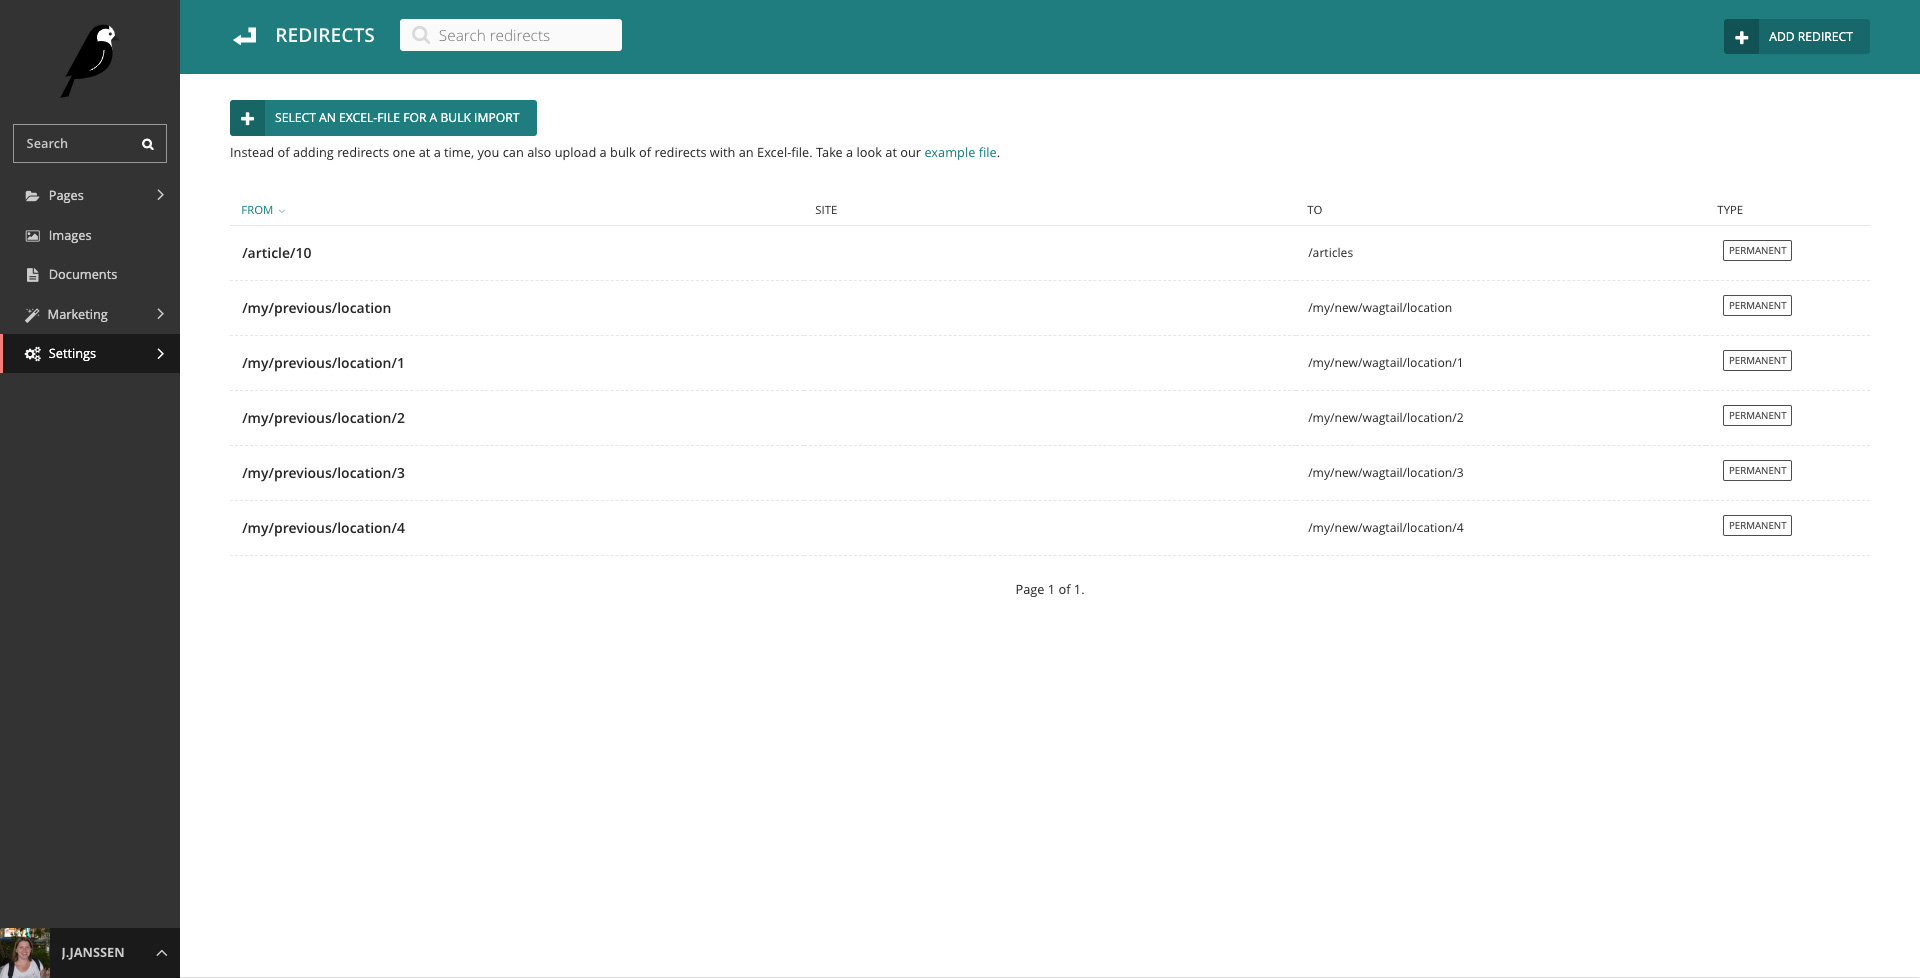
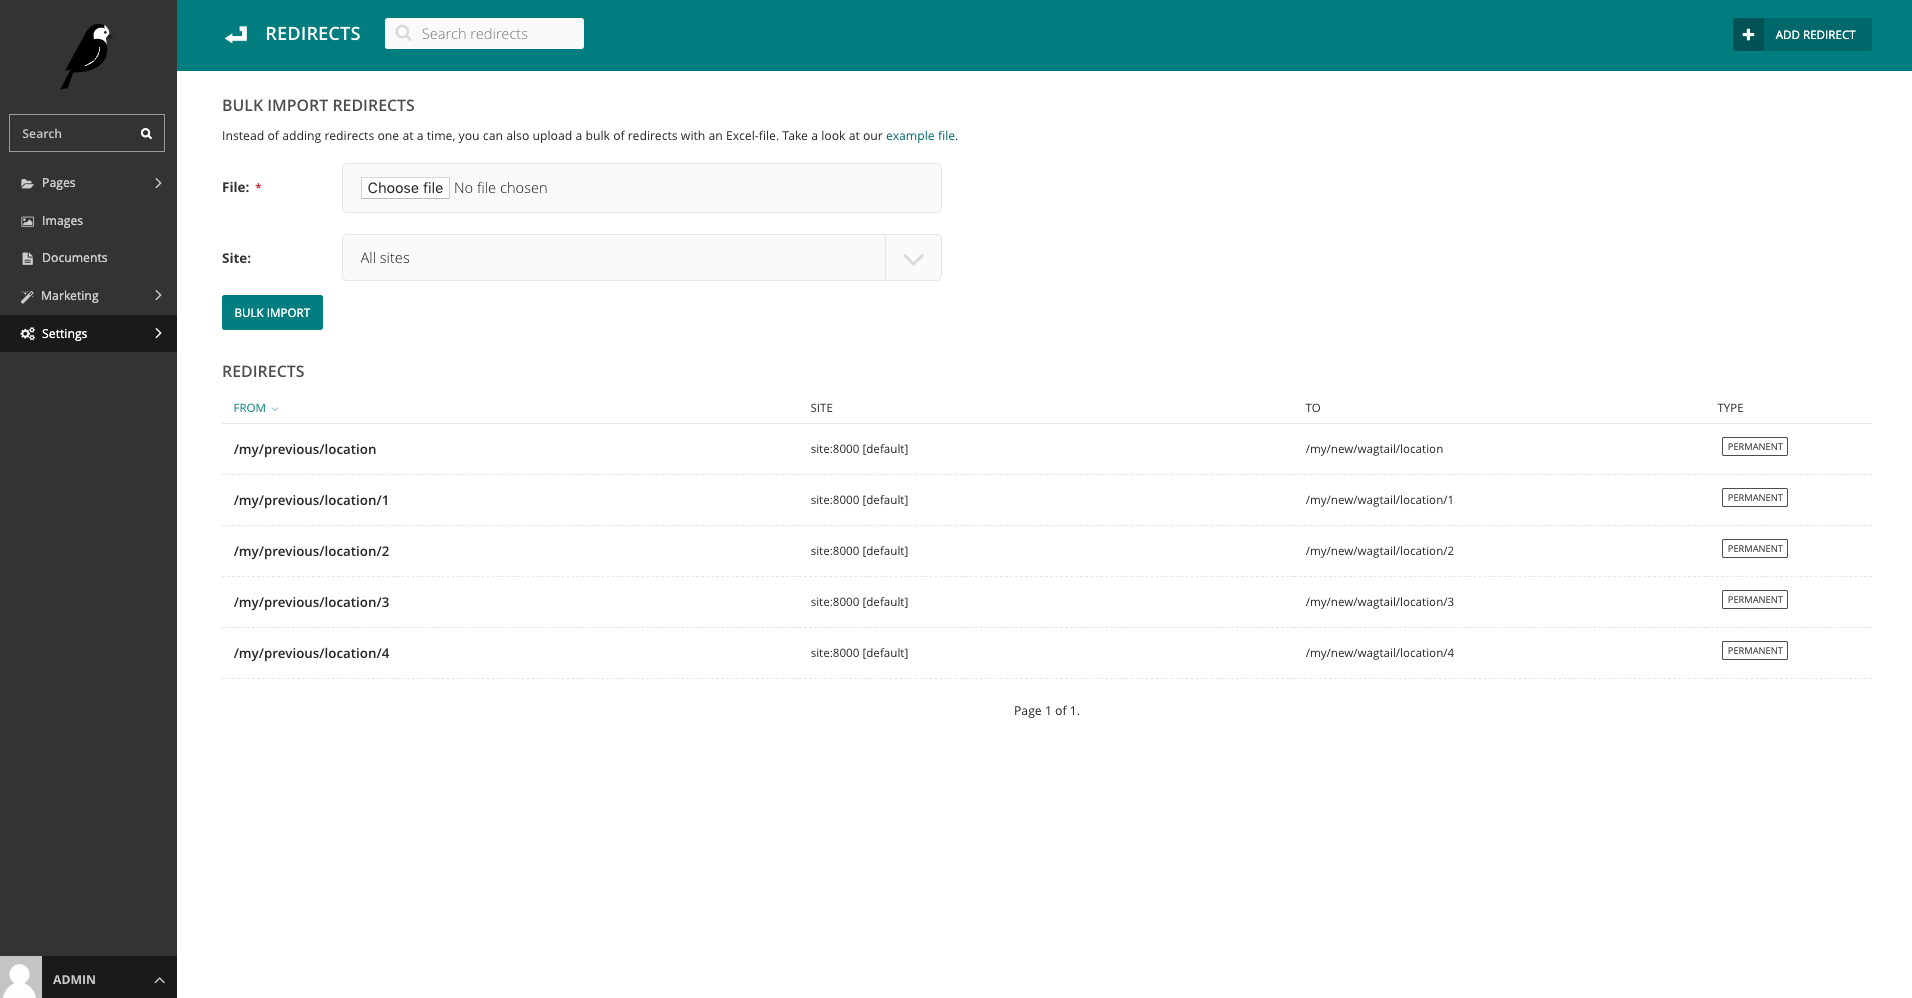
Ability to assign to a site when doing a bulk import

diff --git a/src/wagtail_marketing/templates/wagtailredirects/index.html b/src/wagtail_marketing/templates/wagtailredirects/index.html
@@ -1,5 +1,5 @@
 {% extends "wagtailadmin/base.html" %}
-{% load i18n static %}
+{% load i18n static redirect_tags %}
 {% block titletag %}{% trans "Redirects" %}{% endblock %}
 
 {% block extra_css %}
@@ -28,16 +28,23 @@
     {% endif %}
 
     <div class="nice-padding">
+        <h2>{% trans "Bulk import redirects" %}</h2>
+
+        {% static 'wagtail_marketing/documents/example-file.xlsx' as example_file %}
+        <p>{% blocktrans %}Instead of adding redirects one at a time, you can also upload a bulk of redirects with an Excel-file. Take a look at our <a href="{{ example_file }}" target="_blank" rel="noopener noreferrer">example file</a>.{% endblocktrans %}</p>
+
         <form action="{% url 'redirect_import_view' %}" enctype="multipart/form-data" method="POST" class="c-form">
             {% csrf_token %}
-            <div class="c-file-input">
-                <button class="button bicolor icon icon-plus">{% trans "Select an Excel-file for a bulk import" %}</button>
-                <input id="fileupload" type="file" name="file" onchange="form.submit();">
-            </div>
-            {% static 'wagtail_marketing/documents/example-file.xlsx' as example_file %}
-            <p>{% blocktrans %}Instead of adding redirects one at a time, you can also upload a bulk of redirects with an Excel-file. Take a look at our <a href="{{ example_file }}" target="_blank" rel="noopener noreferrer">example file</a>.{% endblocktrans %}</p>
+            <ul class="fields">
+                {% get_redirect_import_form as form %}
+                {% for field in form %}
+                    {% include "wagtailadmin/shared/field_as_li.html" with field=field %}
+                {% endfor %}
+            </ul>
+            <button type="submit" class="button">{% trans "Import" %}</button>
         </form>
 
+        <h2>{% trans "Redirects" %}</h2>
         <div id="redirects-results" class="redirects">
             {% include "wagtailredirects/results.html" %}
         </div>

diff --git a/tests/unit/test_views.py b/tests/unit/test_views.py
@@ -4,6 +4,7 @@ from django.contrib.messages import get_messages
 from django.core.files.uploadedfile import SimpleUploadedFile
 from django.urls import reverse
 from wagtail.contrib.redirects.models import Redirect
+from wagtail.core.models import Site
 
 from tests.factories.accounts import UserFactory
 from wagtail_marketing.views import RedirectImportView
@@ -21,7 +22,7 @@ class TestRedirectImportView:
         upload_file = open('tests/data/test.xlsx', 'rb')
         assert Redirect.objects.count() == 0
         result = redirect_import_view.read_and_save_data(
-            file_contents=SimpleUploadedFile(upload_file.name, upload_file.read()))
+            file_contents=SimpleUploadedFile(upload_file.name, upload_file.read()), site=None)
         assert result == [
             'Row: 2 - The old path and new path, must both start with /',
             'Row: 3 - The old path and new path, must both start with /',
@@ -45,6 +46,16 @@ class TestRedirectImportView:
         messages = list(get_messages(response.wsgi_request))
         assert len(messages) == 1
         assert str(messages[0]) == '<ul class="errorlist"><li>The submitted file is empty.</li></ul>'
+
+    def test_post_redirect_import_view_no_file(self, client):
+        client.force_login(user=self.user)
+
+        upload_file = open('tests/data/test-empty.txt', 'rb')
+
+        response = client.post(self.view_url, data={})
+        messages = list(get_messages(response.wsgi_request))
+        assert len(messages) == 1
+        assert str(messages[0]) == '<ul class="errorlist"><li>This field is required.</li></ul>'
 
     def test_post_redirect_import_view_wrong_file_type(self, client):
         client.force_login(user=self.user)
@@ -73,3 +84,58 @@ class TestRedirectImportView:
         messages = list(get_messages(response.wsgi_request))
         assert len(messages) == 1
         assert str(messages[0]) == 'Redirects were imported succesfully. 5 records inserted.'
+
+    def test_post_redirect_import_view_with_known_site(self, client):
+        client.force_login(user=self.user)
+
+        upload_file = open('tests/data/test-good.xlsx', 'rb')
+
+        site = Site.objects.first()
+
+        data = {
+            'file': SimpleUploadedFile(upload_file.name, upload_file.read()),
+            'site': site.pk
+        }
+
+        response = client.post(self.view_url, data=data)
+        messages = list(get_messages(response.wsgi_request))
+        assert len(messages) == 1
+        assert str(messages[0]) == 'Redirects were imported succesfully. 5 records inserted.'
+
+        assert Redirect.objects.filter(site=site).count() == 5
+        assert Redirect.objects.filter(site=None).count() == 0
+
+    def test_post_redirect_import_view_with_empty_site(self, client):
+        client.force_login(user=self.user)
+
+        upload_file = open('tests/data/test-good.xlsx', 'rb')
+
+        data = {
+            'file': SimpleUploadedFile(upload_file.name, upload_file.read()),
+            'site': ''
+        }
+
+        response = client.post(self.view_url, data=data)
+        messages = list(get_messages(response.wsgi_request))
+        assert len(messages) == 1
+        assert str(messages[0]) == 'Redirects were imported succesfully. 5 records inserted.'
+
+        assert Redirect.objects.filter(site=None).count() == 5
+        assert Redirect.objects.exclude(site=None).count() == 0
+
+    def test_post_redirect_import_view_with_unknown_site(self, client):
+        client.force_login(user=self.user)
+
+        upload_file = open('tests/data/test-good.xlsx', 'rb')
+
+        data = {
+            'file': SimpleUploadedFile(upload_file.name, upload_file.read()),
+            'site': '10'
+        }
+
+        response = client.post(self.view_url, data=data)
+        messages = list(get_messages(response.wsgi_request))
+        assert len(messages) == 1
+        assert str(messages[0]) == '<ul class="errorlist"><li>Select a valid choice. That choice is not one of the available choices.</li></ul>'
+
+        assert Redirect.objects.count() == 0

diff --git a/src/wagtail_marketing/views.py b/src/wagtail_marketing/views.py
@@ -4,19 +4,21 @@ from django.db import transaction
 from django.forms.utils import ErrorList
 from django.shortcuts import redirect
 from django.utils.translation import ugettext_lazy as _
-from django.views.generic import TemplateView
+from django.views.generic import FormView
 from wagtail.contrib.redirects.models import Redirect
 
 from wagtail_marketing.forms import RedirectImportForm
 
 
-class RedirectImportView(TemplateView):
+class RedirectImportView(FormView):
+    form_class = RedirectImportForm
+
     def post(self, request, *args, **kwargs):
         redirect_import_form = RedirectImportForm(request.POST, request.FILES)
-
         if redirect_import_form.is_valid():
             before = Redirect.objects.count()
-            errors = self.read_and_save_data(file_contents=request.FILES['file'])
+            errors = self.read_and_save_data(
+                file_contents=request.FILES['file'], site=redirect_import_form.cleaned_data.get('site'))
             after = Redirect.objects.count()
             if errors:
                 messages.error(request=request, message=errors)
@@ -26,11 +28,12 @@ class RedirectImportView(TemplateView):
                     message=_("Redirects were imported succesfully. {} records inserted.".format(after - before))
                 )
         else:
-            messages.error(request=request, message=redirect_import_form.errors['file'])
+            messages.error(
+                request=request, message=redirect_import_form.errors.get('file') or redirect_import_form.errors['site'])
 
         return redirect('wagtailredirects:index')
 
-    def read_and_save_data(self, file_contents):
+    def read_and_save_data(self, file_contents, site):
         errors = ErrorList()
         try:
             book = xlrd.open_workbook(file_contents=file_contents.read())
@@ -46,7 +49,7 @@ class RedirectImportView(TemplateView):
                 redirect_link = data[1]
                 if old_path and redirect_link:
                     if old_path.startswith('/') and redirect_link.startswith('/'):
-                        Redirect.objects.get_or_create(old_path=old_path, redirect_link=redirect_link)
+                        Redirect.objects.get_or_create(old_path=old_path, redirect_link=redirect_link, site=site)
                     else:
                         errors.append(
                             _("Row: {} - The old path and new path, must both start with /".format(row_id + 1))

diff --git a/src/wagtail_marketing/forms.py b/src/wagtail_marketing/forms.py
@@ -1,15 +1,14 @@
 from django import forms
 from django.utils.translation import ugettext_lazy as _
+from wagtail.core.models import Site
 
 
 class RedirectImportForm(forms.Form):
     file = forms.FileField()
+    site = forms.ModelChoiceField(queryset=Site.objects.all(), required=False, empty_label=_("All sites"))
 
     def clean_file(self):
-        file = self.cleaned_data.get('file')
-
-        if not file:
-            raise forms.ValidationError(_("No file was selected"))
+        file = self.cleaned_data['file']
 
         if not file.name.endswith('.xlsx') and not file.name.endswith('.xls'):
             raise forms.ValidationError(_("Not a supported format. Supported formats: .xlsx, .xls"))

diff --git a/src/wagtail_marketing/templatetags/redirect_tags.py b/src/wagtail_marketing/templatetags/redirect_tags.py
@@ -1,0 +1,10 @@
+from django import template
+
+from ..forms import RedirectImportForm
+
+register = template.Library()
+
+
+@register.simple_tag
+def get_redirect_import_form():
+    return RedirectImportForm()
